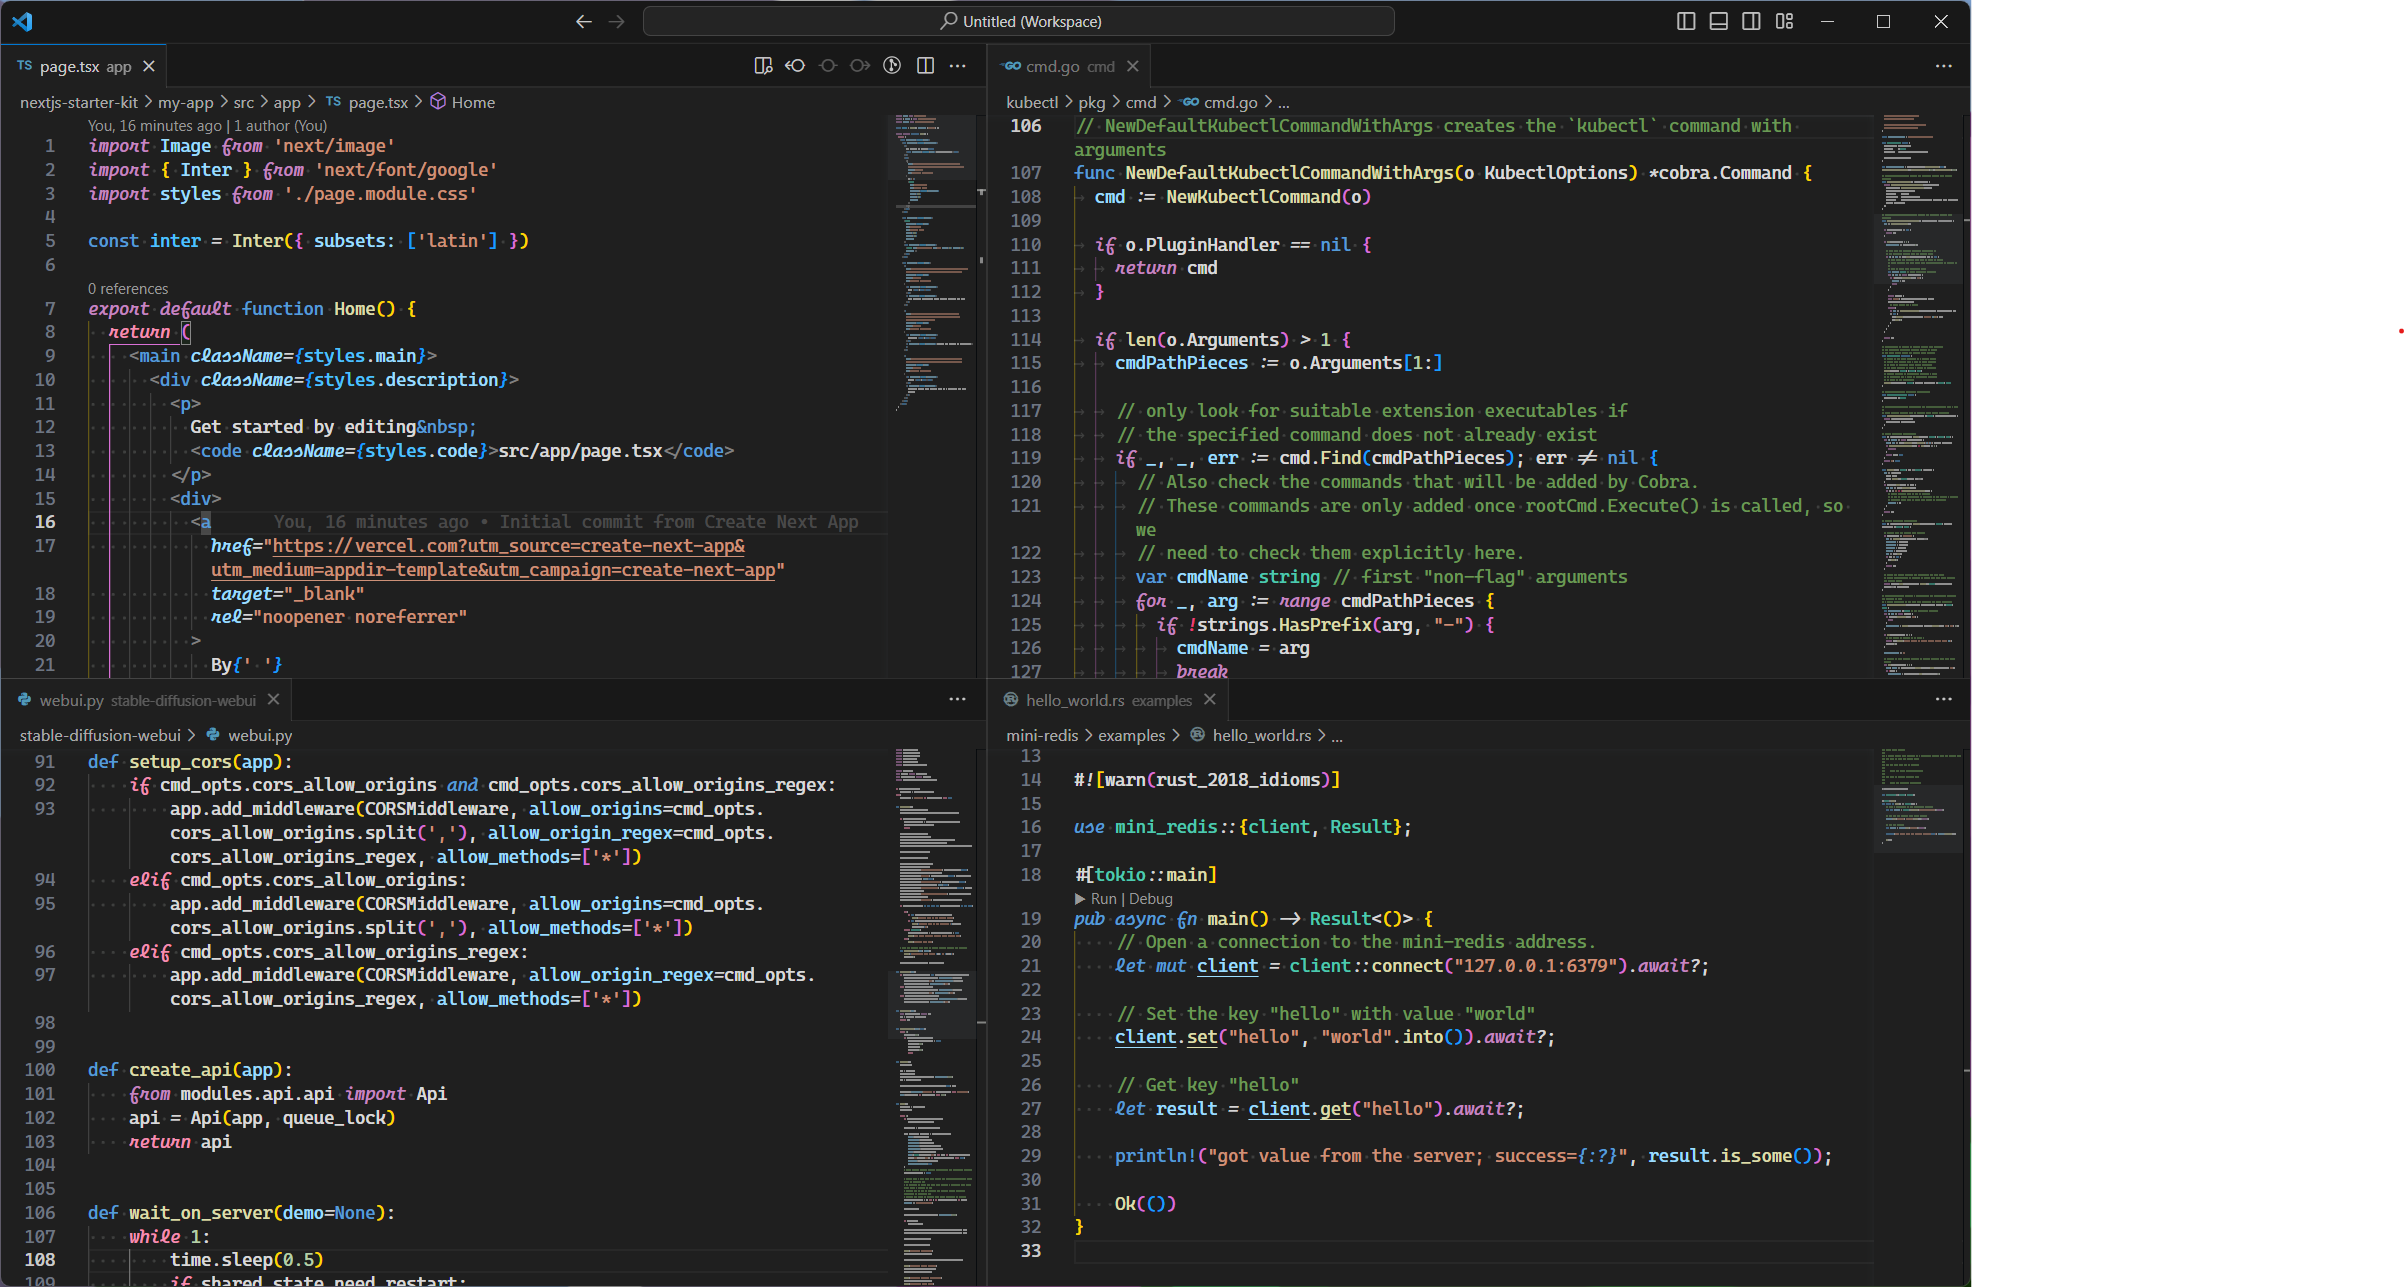
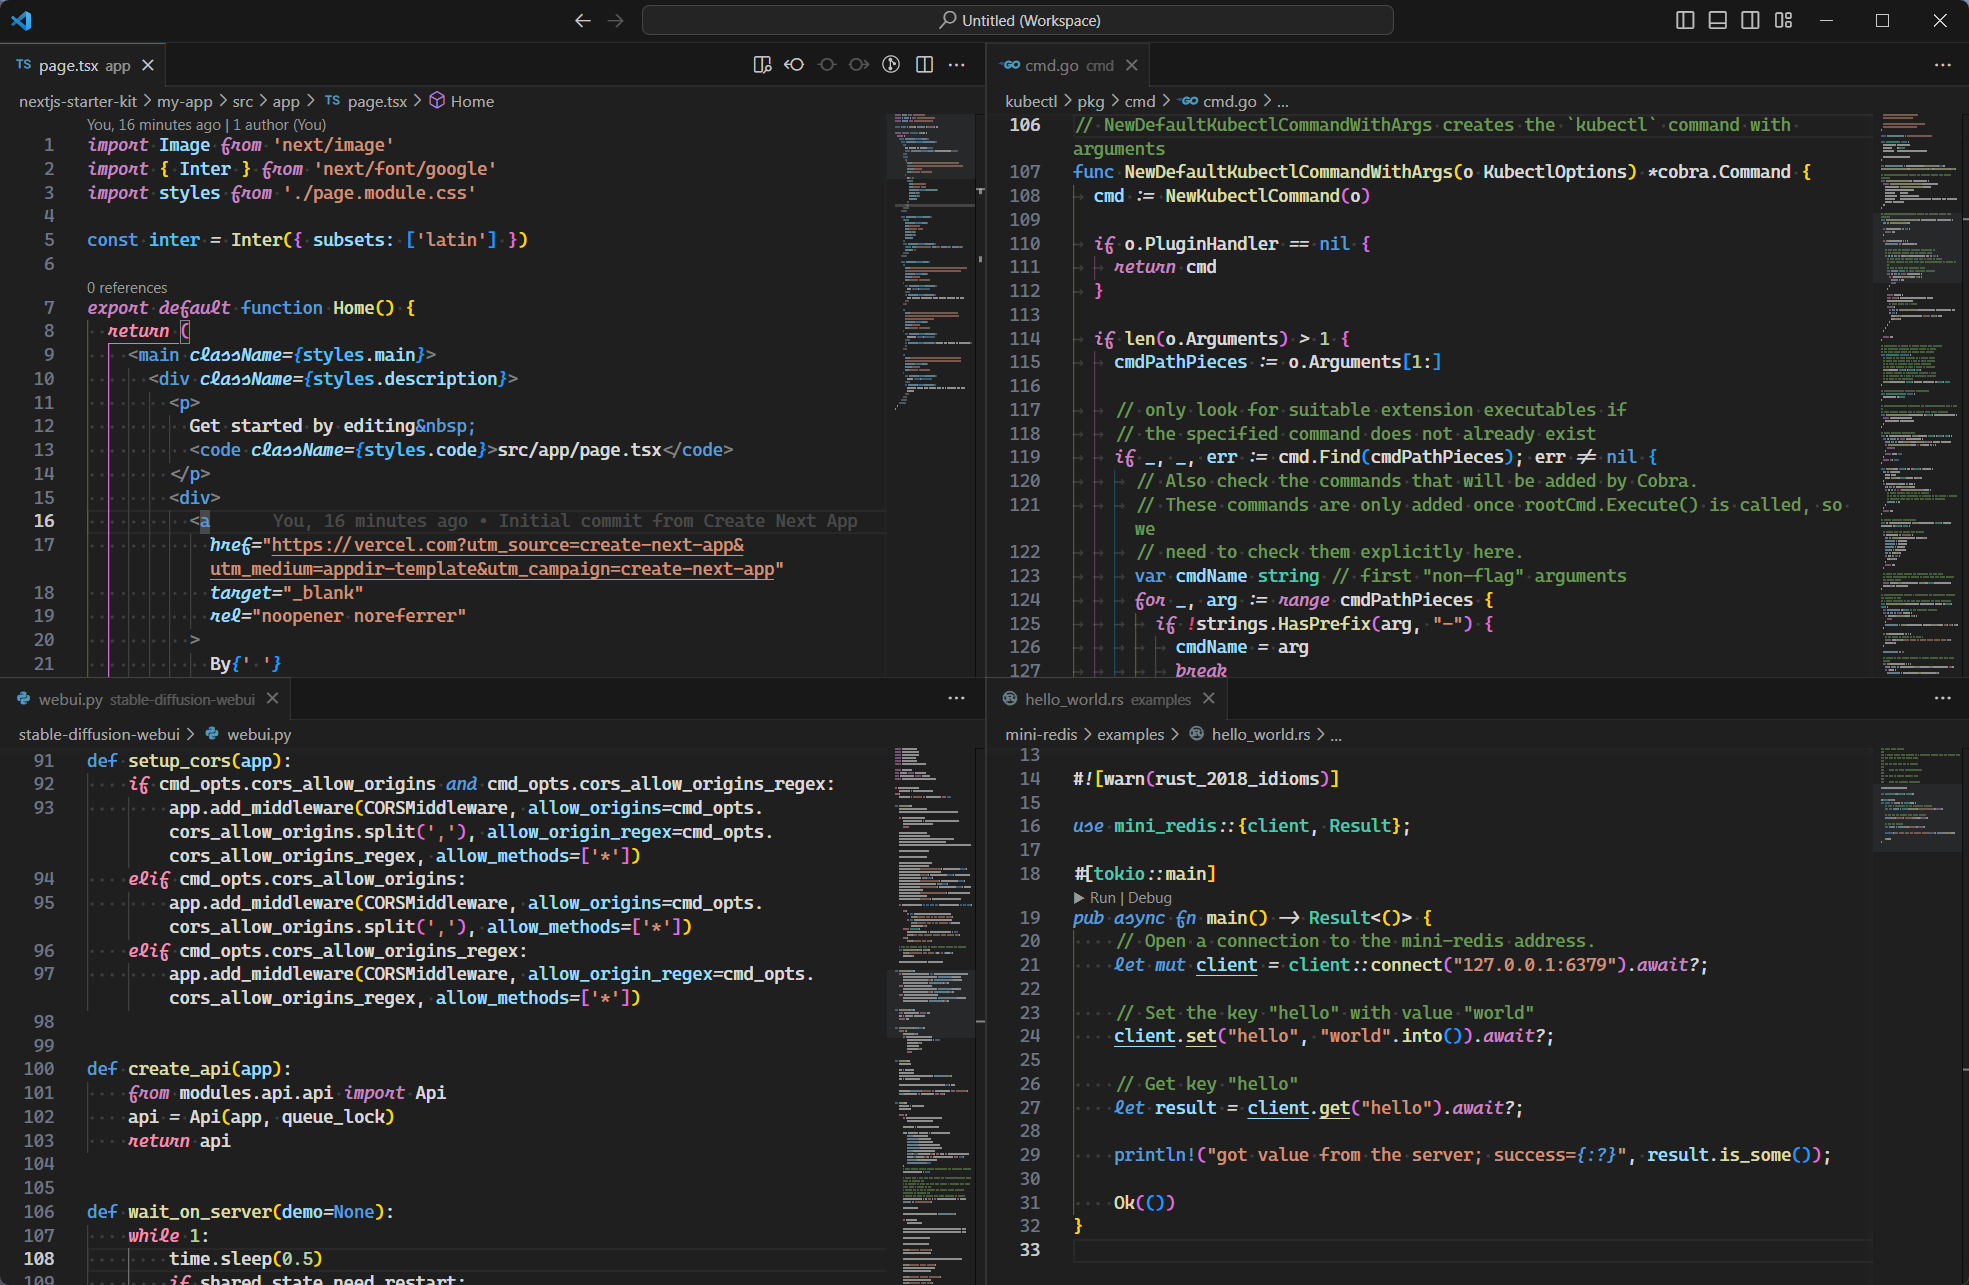
chore: Fix borders on example, improve readme.

diff --git a/README.md b/README.md
@@ -5,8 +5,21 @@ A splash of italics added to the new and experimental Dark+ V2 theme added in Vi
 Italic](https://marketplace.visualstudio.com/items?itemName=idbartosz.darkpp-italic), a minimal
 modification of the default theme to add italics to highlight script fonts.
 
-My font of choice is [Microsoft's Cascadia Code](https://github.com/microsoft/cascadia-code), modified with the [Nerd Fonts](https://www.nerdfonts.com/) patcher to add script italics. This font can be found in a fork of Nerd Fonts at https://github.com/AaronFriel/nerd-fonts/releases.
+The screenshot below this theme with the "Caskaydia Code" remix of Cascadia Code:
 
 ![A screenshot of the theme in four languages in quadrants. From left to right in the top row: TypeScript/React and Go; in the bottom row: Python and Rust](./docs/theme-example.png)
 
-The screenshot uses this theme, with the "Caskaydia Code" remix of Cascadia Code built with script italics.
+## Enabling Script Italics
+
+I recommend [Microsoft's Cascadia Code](https://github.com/microsoft/cascadia-code) with script italics, patched with [Nerd Fonts](https://www.nerdfonts.com/) to add symbols. This font can be found in a fork of Nerd Fonts as "Caskaydia Code" https://github.com/AaronFriel/nerd-fonts/releases.
+
+The set of font ligature options enabled is enabled by setting `editor.fontLigatures` in settings to include stylistic set 1 (`'ss01'`). Additional options are available, see the [Cascadia Code repository](See: https://github.com/microsoft/cascadia-code) for more.
+
+The settings for this screenshot were:
+
+```json
+  "editor.fontFamily": "'CaskaydiaCove Nerd Font', 'Consolas', 'Courier New', monospace",
+  "editor.fontLigatures": "'calt', 'ss01', 'ss04', 'ss05', 'ss06', 'salt', 'zero', 'onum'",
+  "editor.fontSize": 14,
+  "editor.fontWeight": "400",
+```
